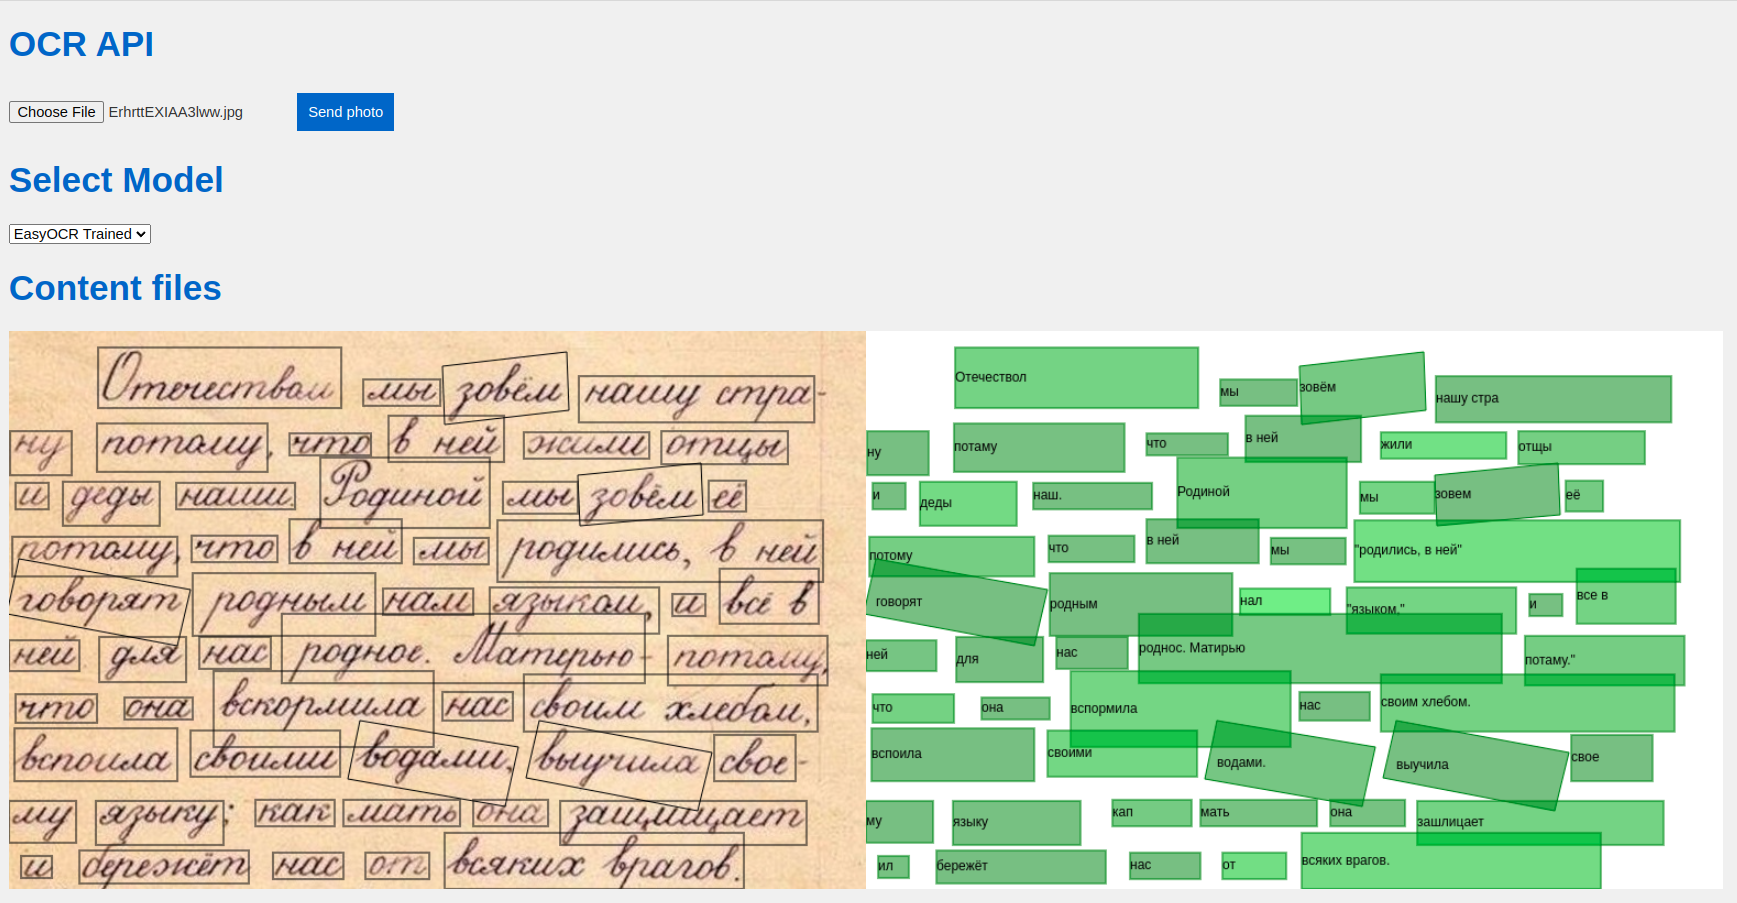
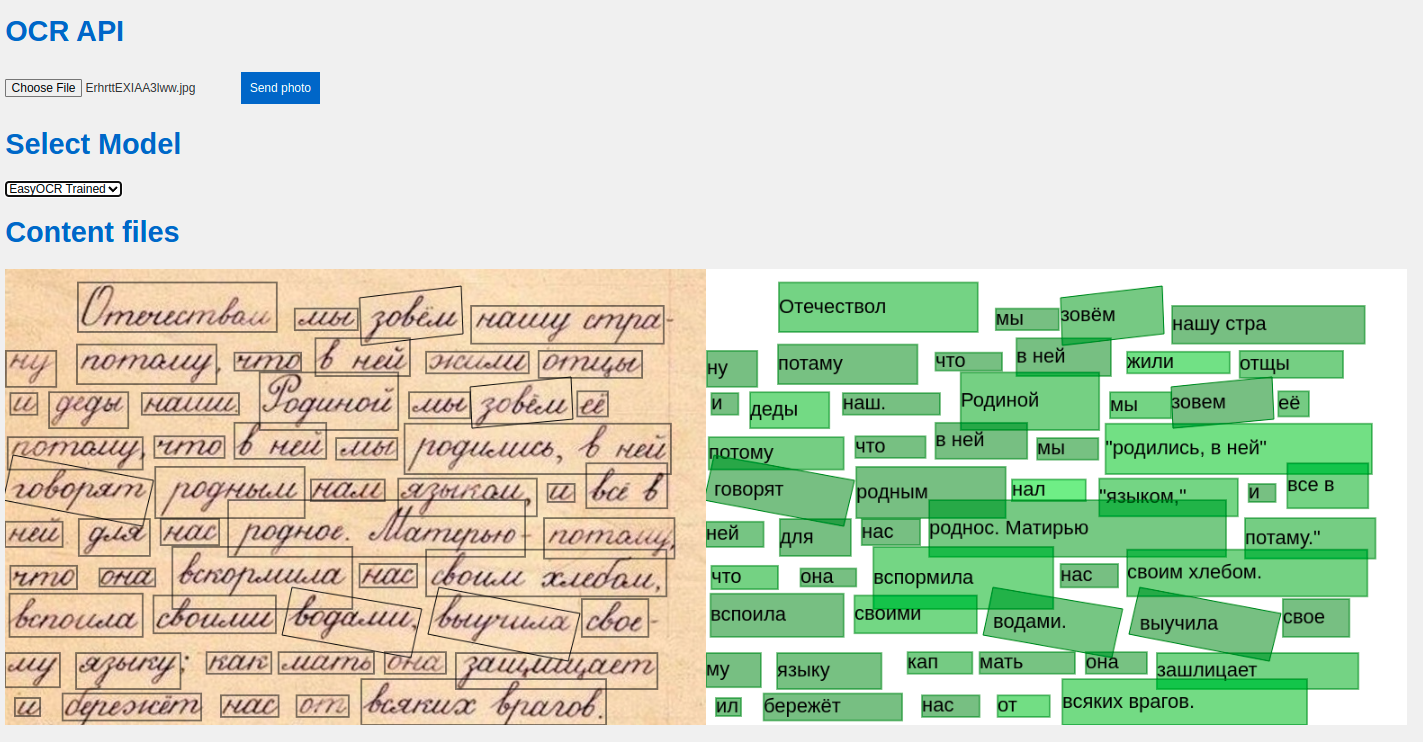
refactoring/updated docs

diff --git a/docs/script.js b/docs/script.js
@@ -86,7 +86,7 @@ function result2show(image, result) {
 
         // Draw text on the second canvas
         ctx2.fillStyle = 'black'; // Black color for text
-        ctx2.font = '12px Arial';
+        ctx2.font = '22px Arial';
         ctx2.textBaseline = 'middle';
         ctx2.textAlign = 'left';
         ctx2.fillText(rec_texts.replace('$', '\\$'), x_coord[0], y_coord.reduce((acc, val) => acc + val, 0) / y_coord.length);
